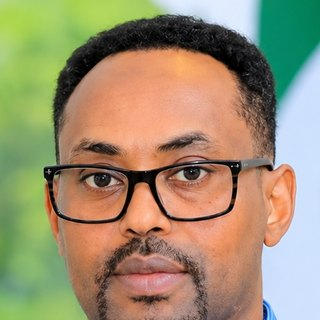
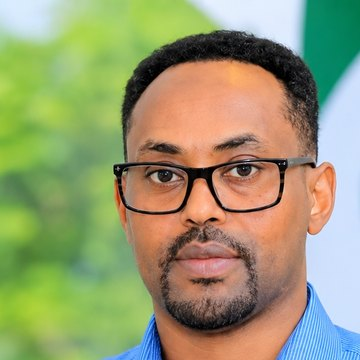
Founders: larger portraits, wider crop for Kaisar
Claude-Session: https://claude.ai/code/session_016TU9hNXqLaHjKGn2Sm8hm3

diff --git a/docs/assets/css/site.css b/docs/assets/css/site.css
@@ -96,7 +96,7 @@ p { margin: 0 0 1em; }
 
 /* People */
 .person { display: flex; gap: 18px; align-items: flex-start; }
-.avatar { flex: 0 0 96px; width: 96px; height: 96px; border-radius: 50%; background: var(--forest); color: #fff; display: grid; place-items: center; font-weight: 800; font-size: 1.3rem; }
+.avatar { flex: 0 0 120px; width: 120px; height: 120px; border-radius: 50%; background: var(--forest); color: #fff; display: grid; place-items: center; font-weight: 800; font-size: 1.3rem; }
 .avatar--photo { object-fit: cover; object-position: center 30%; background: var(--beige); border: 3px solid #fff; box-shadow: 0 2px 10px rgba(0,0,0,.12); }
 .person h3 { margin-bottom: 2px; }
 .role { display: block; font-size: .85rem; font-weight: 700; letter-spacing: .06em; text-transform: uppercase; color: var(--gold-text); margin-bottom: 8px; }

diff --git a/docs/index.html b/docs/index.html
@@ -20,7 +20,7 @@
 <link rel="preconnect" href="https://fonts.googleapis.com">
 <link rel="preconnect" href="https://fonts.gstatic.com" crossorigin>
 <link rel="stylesheet" href="https://fonts.googleapis.com/css2?family=Montserrat:wght@500;600;700;800&amp;display=swap">
-<link rel="stylesheet" href="assets/css/site.css?v=20261126b">
+<link rel="stylesheet" href="assets/css/site.css?v=20261126c">
 <script type="application/ld+json">
 {
   "@context": "https://schema.org",

diff --git a/docs/about.html b/docs/about.html
@@ -20,7 +20,7 @@
 <link rel="preconnect" href="https://fonts.googleapis.com">
 <link rel="preconnect" href="https://fonts.gstatic.com" crossorigin>
 <link rel="stylesheet" href="https://fonts.googleapis.com/css2?family=Montserrat:wght@500;600;700;800&amp;display=swap">
-<link rel="stylesheet" href="assets/css/site.css?v=20261126b">
+<link rel="stylesheet" href="assets/css/site.css?v=20261126c">
 </head>
 <body>
 <a class="skip" href="#main">Skip to content</a>

diff --git a/docs/contact.html b/docs/contact.html
@@ -20,7 +20,7 @@
 <link rel="preconnect" href="https://fonts.googleapis.com">
 <link rel="preconnect" href="https://fonts.gstatic.com" crossorigin>
 <link rel="stylesheet" href="https://fonts.googleapis.com/css2?family=Montserrat:wght@500;600;700;800&amp;display=swap">
-<link rel="stylesheet" href="assets/css/site.css?v=20261126b">
+<link rel="stylesheet" href="assets/css/site.css?v=20261126c">
 </head>
 <body>
 <a class="skip" href="#main">Skip to content</a>

diff --git a/docs/products.html b/docs/products.html
@@ -20,7 +20,7 @@
 <link rel="preconnect" href="https://fonts.googleapis.com">
 <link rel="preconnect" href="https://fonts.gstatic.com" crossorigin>
 <link rel="stylesheet" href="https://fonts.googleapis.com/css2?family=Montserrat:wght@500;600;700;800&amp;display=swap">
-<link rel="stylesheet" href="assets/css/site.css?v=20261126b">
+<link rel="stylesheet" href="assets/css/site.css?v=20261126c">
 </head>
 <body>
 <a class="skip" href="#main">Skip to content</a>

diff --git a/docs/thank-you.html b/docs/thank-you.html
@@ -20,7 +20,7 @@
 <link rel="preconnect" href="https://fonts.googleapis.com">
 <link rel="preconnect" href="https://fonts.gstatic.com" crossorigin>
 <link rel="stylesheet" href="https://fonts.googleapis.com/css2?family=Montserrat:wght@500;600;700;800&amp;display=swap">
-<link rel="stylesheet" href="assets/css/site.css?v=20261126b">
+<link rel="stylesheet" href="assets/css/site.css?v=20261126c">
 <meta name="robots" content="noindex">
 </head>
 <body>
